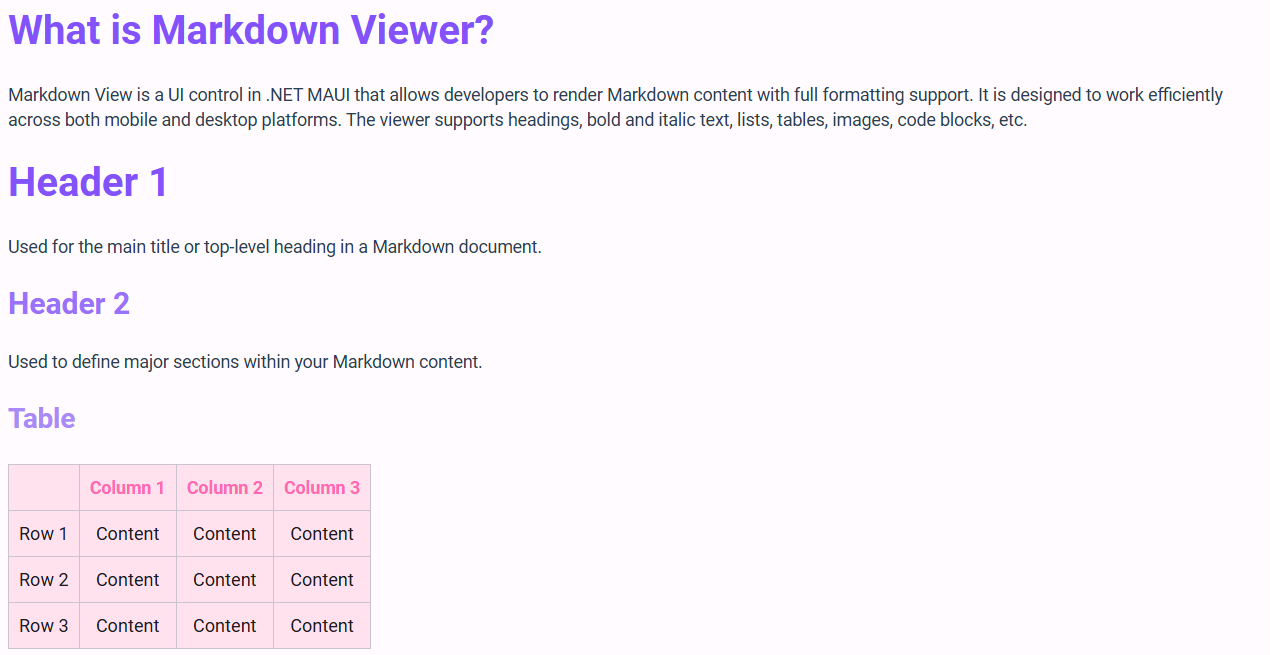
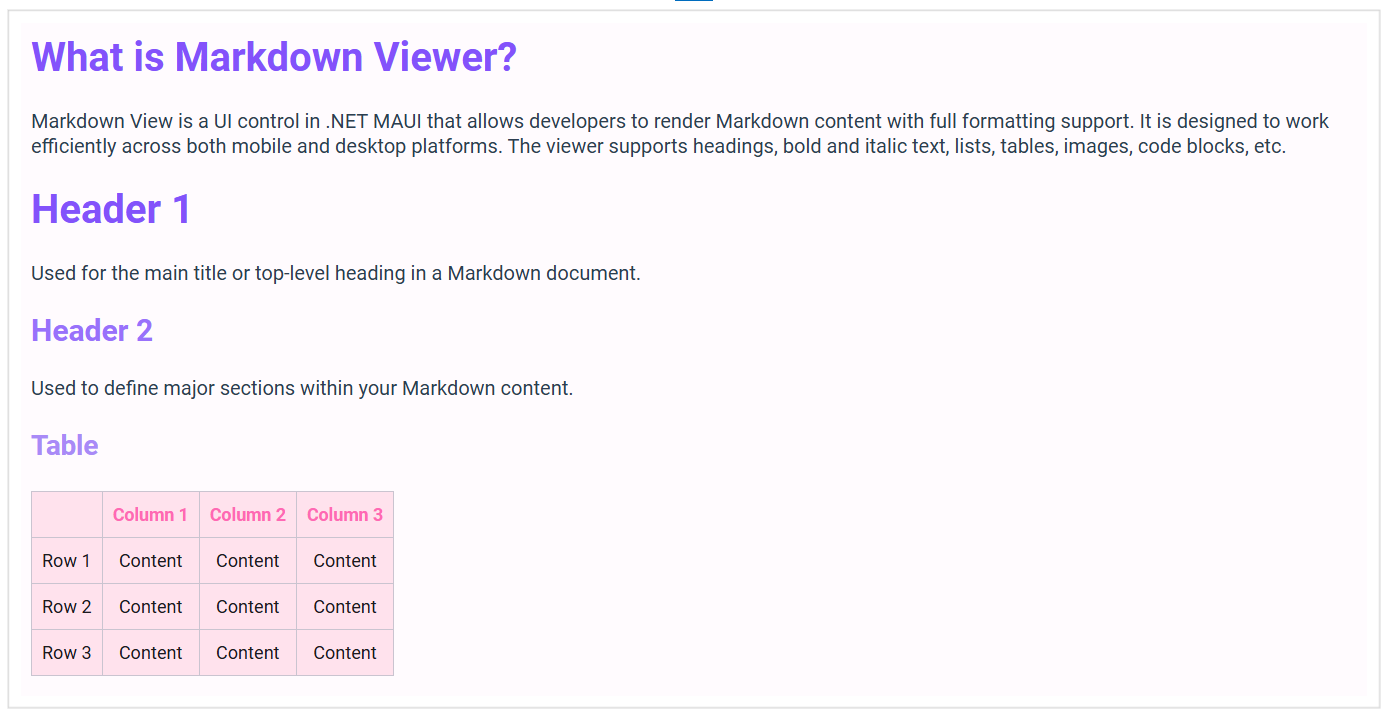
content and image updates

diff --git a/MAUI/MarkdownViewer/GettingStarted.md b/MAUI/MarkdownViewer/GettingStarted.md
@@ -40,7 +40,7 @@ The [Syncfusion.Maui.Core](https://www.nuget.org/packages/Syncfusion.Maui.Core) 
 
 {% tabs %}
 
-{% highlight csharp tabtitle="MauiProgram.cs" hl_lines="2 13" %}
+{% highlight C# tabtitle="MauiProgram.cs" hl_lines="2 13" %}
 
 using Microsoft.Extensions.Logging;
 using Syncfusion.Maui.Core.Hosting;
@@ -77,14 +77,14 @@ namespace MarkdownViewerGettingStarted
 
 {% highlight xaml %}
 
-<ContentPage
-    . . .    
-    xmlns:markdown="clr-namespace:Syncfusion.Maui.MarkdownViewer;
-    assembly=Syncfusion.Maui.MarkdownViewer">
-   
-     <markdown:SfMarkdownViewer Source="Welcome to **Markdown Viewer**!" />
-     
-</ContentPage>
+    <ContentPage
+        . . .    
+        xmlns:markdown="clr-namespace:Syncfusion.Maui.MarkdownViewer;
+        assembly=Syncfusion.Maui.MarkdownViewer">
+    
+        <markdown:SfMarkdownViewer />
+        
+    </ContentPage>
  
 {% endhighlight %}
 
@@ -92,19 +92,18 @@ namespace MarkdownViewerGettingStarted
 
 using Syncfusion.Maui.MarkdownViewer;
 
-namespace MarkdownViewerGettingStarted
-{
-    public partial class MainPage : ContentPage
+    namespace MarkdownViewerGettingStarted
     {
-        public MainPage()
+        public partial class MainPage : ContentPage
         {
-            InitializeComponent();  
-            SfMarkdownViewer markdownViewer = new SfMarkdownViewer();
-            markdownViewer.Source = "Welcome to **Markdown Viewer**!";
-            Content = markdownViewer;       
-        }
-    }   
-}
+            public MainPage()
+            {
+                InitializeComponent();  
+                SfMarkdownViewer markdownViewer = new SfMarkdownViewer();
+                Content = markdownViewer;       
+            }
+        }   
+    }
 
 {% endhighlight %}
 {% endtabs %}
@@ -143,7 +142,9 @@ The [Syncfusion.Maui.Core](https://www.nuget.org/packages/Syncfusion.Maui.Core/)
 
 using Microsoft.Maui;
 using Microsoft.Maui.Hosting;
+using Microsoft.Maui.Controls.Compatibility;
 using Microsoft.Maui.Controls.Hosting;
+using Microsoft.Maui.Controls.Xaml;
 using Syncfusion.Maui.Core.Hosting;
 
 namespace MarkdownViewerSample
@@ -190,19 +191,20 @@ namespace MarkdownViewerSample
 
 {% highlight C# %}
 
-using Syncfusion.Maui.MarkdownViewer;
+    using Syncfusion.Maui.MarkdownViewer;
 
-namespace MarkdownViewerGettingStarted
-{
-    public partial class MainPage : ContentPage
+    namespace MarkdownViewerGettingStarted
     {
-        public MainPage()
+        public partial class MainPage : ContentPage
         {
-            InitializeComponent();  
-            SfMarkdownViewer markdownViewer = new SfMarkdownViewer();
-        }
-    }   
-}
+            public MainPage()
+            {
+                InitializeComponent();  
+                SfMarkdownViewer markdownViewer = new SfMarkdownViewer();
+                Content = markdownViewer;    
+            }
+        }   
+    }
 
 {% endhighlight %}
 {% endtabs %}
@@ -214,11 +216,10 @@ To display Markdown content, assign a string to the `Source` property of the SfM
 {% tabs %} 
 {% highlight xaml %}
 
-    <ContentPage>
-        <markdown:SfMarkdownViewer>
-            <markdown:SfMarkdownViewer.Source>
-                <x:String>
-                    <![CDATA[
+    <markdown:SfMarkdownViewer>
+        <markdown:SfMarkdownViewer.Source>
+            <x:String>
+                <![CDATA[
                                 # What is Markdown Viewer?  
         Markdown View is a UI control in .NET MAUI that allows developers to render Markdown content with full formatting support. It is designed to work efficiently across both mobile and desktop platforms. The viewer supports headings, bold and italic text, lists, tables, images, code blocks, etc.
 
@@ -227,8 +228,6 @@ To display Markdown content, assign a string to the `Source` property of the SfM
 
         ## Header 2  
         Used to define major sections within your Markdown content.
-                        
-        ---
 
         ## Table 
 
@@ -237,11 +236,10 @@ To display Markdown content, assign a string to the `Source` property of the SfM
         | Row 1        | Content  | Content  | Content  |
         | Row 2        | Content  | Content  | Content  |
         | Row 3        | Content  | Content  | Content  |
-                            ]]>
-                </x:String>
-            </markdown:SfMarkdownViewer.Source>
-        </markdown:SfMarkdownViewer>
-    </ContentPage>
+                ]]>
+            </x:String>
+        </markdown:SfMarkdownViewer.Source>
+    </markdown:SfMarkdownViewer>
 {% endhighlight %}
 
 {% highlight C# %}
@@ -256,8 +254,6 @@ To display Markdown content, assign a string to the `Source` property of the SfM
 
     ## Header 2  
     Used to define major sections within your Markdown content.
-                    
-    ---
 
     ## Table 
 

diff --git a/MAUI/MarkdownViewer/MarkdownSources.md b/MAUI/MarkdownViewer/MarkdownSources.md
@@ -74,35 +74,18 @@ Assign a Markdown-formatted string to the `Source` property of the SfMarkdownVie
 
 ## From Local File
 
-To load Markdown content from a local file, use the `FilePicker` API to select a `.md` file. Once selected, read the file asynchronously and assign its content to the `Source` property of the `SfMarkdownViewer`.
+To load Markdown content from a local `.md` file, you can directly specify the file path and read its contents using standard file I/O and assign its content to the `Source` property of the `SfMarkdownViewer`.
 
-{% tabs %}
-{% highlight C# %}
+{% highlight xaml %}
 
-    private async void OnPickFileClicked(object sender, EventArgs e)
-    {
-        var result = await FilePicker.Default.PickAsync(new PickOptions
-        {
-            PickerTitle = "Select a Markdown file"
-        });
+    <ContentPage>
+    
+        <markdown:SfMarkdownViewer x:Name="MarkdownViewer" />
 
-        if (result != null)
-        {
-            using var stream = await result.OpenReadAsync();
-            using var reader = new StreamReader(stream);
-            MarkdownViewer.Source = await reader.ReadToEndAsync();
-        }
-    }
+    </ContentPage>
 
 {% endhighlight %}
-{% endtabs %}
 
-## From Embedded Resource
-
-1. To load Markdown content from an embedded resource, place the `.md` file inside the `Resources` folder of your .NET MAUI project. 
-2. Use asynchronous file access to read and assign the content to the `Source` property of the `SfMarkdownViewer` control.
-
-{% tabs %}
 {% highlight C# %}
 
     public partial class MainPage : ContentPage
@@ -110,9 +93,38 @@ To load Markdown content from a local file, use the `FilePicker` API to select a
         public MainPage()
         {
             InitializeComponent();
-            SfMarkdownViewer markdownViewer = new SfMarkdownViewer();
+
+            string filePath = @"D:\MAUI\MarkdownViewer\Files\MarkdownContent.md";
+            string markdownContent = File.ReadAllText(filePath);
+            MarkdownViewer.Source = markdownContent;
+        }
+    }
+
+{% endhighlight %}
+
+## From Embedded Resource
+
+1. To load Markdown content from an embedded resource, place the `.md` file inside the `Resources` folder of your .NET MAUI project. 
+2. Use asynchronous file access to read and assign the content to the `Source` property of the `SfMarkdownViewer` control.
+
+{% highlight xaml %}
+
+    <ContentPage>
+    
+        <markdown:SfMarkdownViewer x:Name="MarkdownViewer" />
+
+    </ContentPage>
+
+{% endhighlight %}
+
+{% highlight C# %}
+
+    public partial class MainPage : ContentPage
+    {
+        public MainPage()
+        {
+            InitializeComponent();
             _ = LoadMarkdownAsync();
-            Content = markdownViewer;  
         }
 
         private async Task LoadMarkdownAsync()
@@ -120,7 +132,7 @@ To load Markdown content from a local file, use the `FilePicker` API to select a
             using Stream stream = await FileSystem.OpenAppPackageFileAsync("MarkdownContent.md");
             using StreamReader reader = new StreamReader(stream, Encoding.UTF8);
             string markdownContent = await reader.ReadToEndAsync();
-            MarkdownView.Source = markdownContent;
+            MarkdownViewer.Source = markdownContent;
         }
     }
 
@@ -132,6 +144,18 @@ To load Markdown content from a local file, use the `FilePicker` API to select a
 Markdown content can be loaded directly from a publicly accessible URL. This is useful for displaying remote documentation, release notes, or any Markdown file hosted online.
 
 {% tabs %}
+
+{% highlight xaml %}
+
+    <ContentPage>
+    
+        <markdown:SfMarkdownViewer Source="https://raw.githubusercontent.com/SyncfusionExamples/GettingStarted_DockLayout_MAUI/refs/heads/master/README.md">
+        </markdown:SfMarkdownViewer>
+
+    </ContentPage>
+
+{% endhighlight %}
+
 {% highlight C# %}
 
     public partial class MainPage : ContentPage

diff --git a/MAUI/MarkdownViewer/ContentRetrieval.md b/MAUI/MarkdownViewer/ContentRetrieval.md
@@ -16,21 +16,21 @@ The [SfMarkdownViewer]() control provides built-in methods to retrieve and trans
 Retrieves the raw Markdown content currently assigned to the `Source` property of the [SfMarkdownViewer]() control. 
 
 {% tabs %}
-{% highlight C# %}
+{% highlight C# hl_lines="12" %}
 
-public partial class MainPage : ContentPage
-{
-    public MainPage()
+    public partial class MainPage : ContentPage
     {
-        InitializeComponent();  
-        SfMarkdownViewer markdownViewer = new SfMarkdownViewer();
-        markdownViewer.Source = "Welcome to **Markdown Viewer**!";
-        Content = markdownViewer;       
-    }
-    . . .
+        public MainPage()
+        {
+            InitializeComponent();  
+            SfMarkdownViewer markdownViewer = new SfMarkdownViewer();
+            markdownViewer.Source = "Welcome to **Markdown Viewer**!";
+            Content = markdownViewer;       
+        }
+        . . .
 
-    string markdown = MarkdownViewer.GetMarkdown();
-}
+        string markdown = MarkdownViewer.GetMarkdown();
+    }
 
 {% endhighlight %}
 {% endtabs %}
@@ -40,21 +40,21 @@ public partial class MainPage : ContentPage
 Converts the Markdown content of the SfMarkdownViewer control into HTML format and provides the result as a string.
 
 {% tabs %}
-{% highlight C# %}
+{% highlight C# hl_lines="12" %}
 
-public partial class MainPage : ContentPage
-{
-    public MainPage()
+    public partial class MainPage : ContentPage
     {
-        InitializeComponent();  
-        SfMarkdownViewer markdownViewer = new SfMarkdownViewer();
-        markdownViewer.Source = "Welcome to **Markdown Viewer**!";
-        Content = markdownViewer;       
-    }
-    . . .
+        public MainPage()
+        {
+            InitializeComponent();  
+            SfMarkdownViewer markdownViewer = new SfMarkdownViewer();
+            markdownViewer.Source = "Welcome to **Markdown Viewer**!";
+            Content = markdownViewer;       
+        }
+        . . .
 
-    string html = MarkdownViewer.GetHtml();
-}
+        string html = MarkdownViewer.GetHtml();
+    }
 
 {% endhighlight %}
 {% endtabs %}
@@ -64,21 +64,21 @@ public partial class MainPage : ContentPage
 Extracts the plain text content from the Markdown assigned to the `SfMarkdownViewer` control, removing all Markdown formatting such as headings, emphasis, links, and code blocks.
 
 {% tabs %}
-{% highlight C# %}
+{% highlight C# hl_lines="12" %}
 
-public partial class MainPage : ContentPage
-{
-    public MainPage()
+    public partial class MainPage : ContentPage
     {
-        InitializeComponent();  
-        SfMarkdownViewer markdownViewer = new SfMarkdownViewer();
-        markdownViewer.Source = "Welcome to **Markdown Viewer**!";
-        Content = markdownViewer;       
-    }
-    . . .
+        public MainPage()
+        {
+            InitializeComponent();  
+            SfMarkdownViewer markdownViewer = new SfMarkdownViewer();
+            markdownViewer.Source = "Welcome to **Markdown Viewer**!";
+            Content = markdownViewer;       
+        }
+        . . .
 
-    string text = markdownViewer.GetText();
-}
+        string text = markdownViewer.GetText();
+    }
 
 {% endhighlight %}
 {% endtabs %}

diff --git a/MAUI/MarkdownViewer/Appearance.md b/MAUI/MarkdownViewer/Appearance.md
@@ -56,7 +56,7 @@ The appearance of headings and body content in SfMarkdownViewer can be customize
                                                 H1Color = "#8352FB"
                                                 H2Color = "#9971FB"
                                                 H3Color = "#A98AF7"
-                                                BodyFontSize = "14px"
+                                                BodyFontSize = "16px"
                                                 BodyTextColor = "#2C3E50"
                                                 TableBackground = "#FFE2ED"
                                                 TableHeaderTextColor = "HotPink">
@@ -86,7 +86,7 @@ The appearance of headings and body content in SfMarkdownViewer can be customize
                 H1Color = "#8352FB",
                 H2Color = "#9971FB",
                 H3Color = "#A98AF7",
-                BodyFontSize = "14px",
+                BodyFontSize = "16px",
                 BodyTextColor = "#2C3E50",
                 TableBackground = "#FFE2ED",
                 TableHeaderTextColor = "HotPink"
